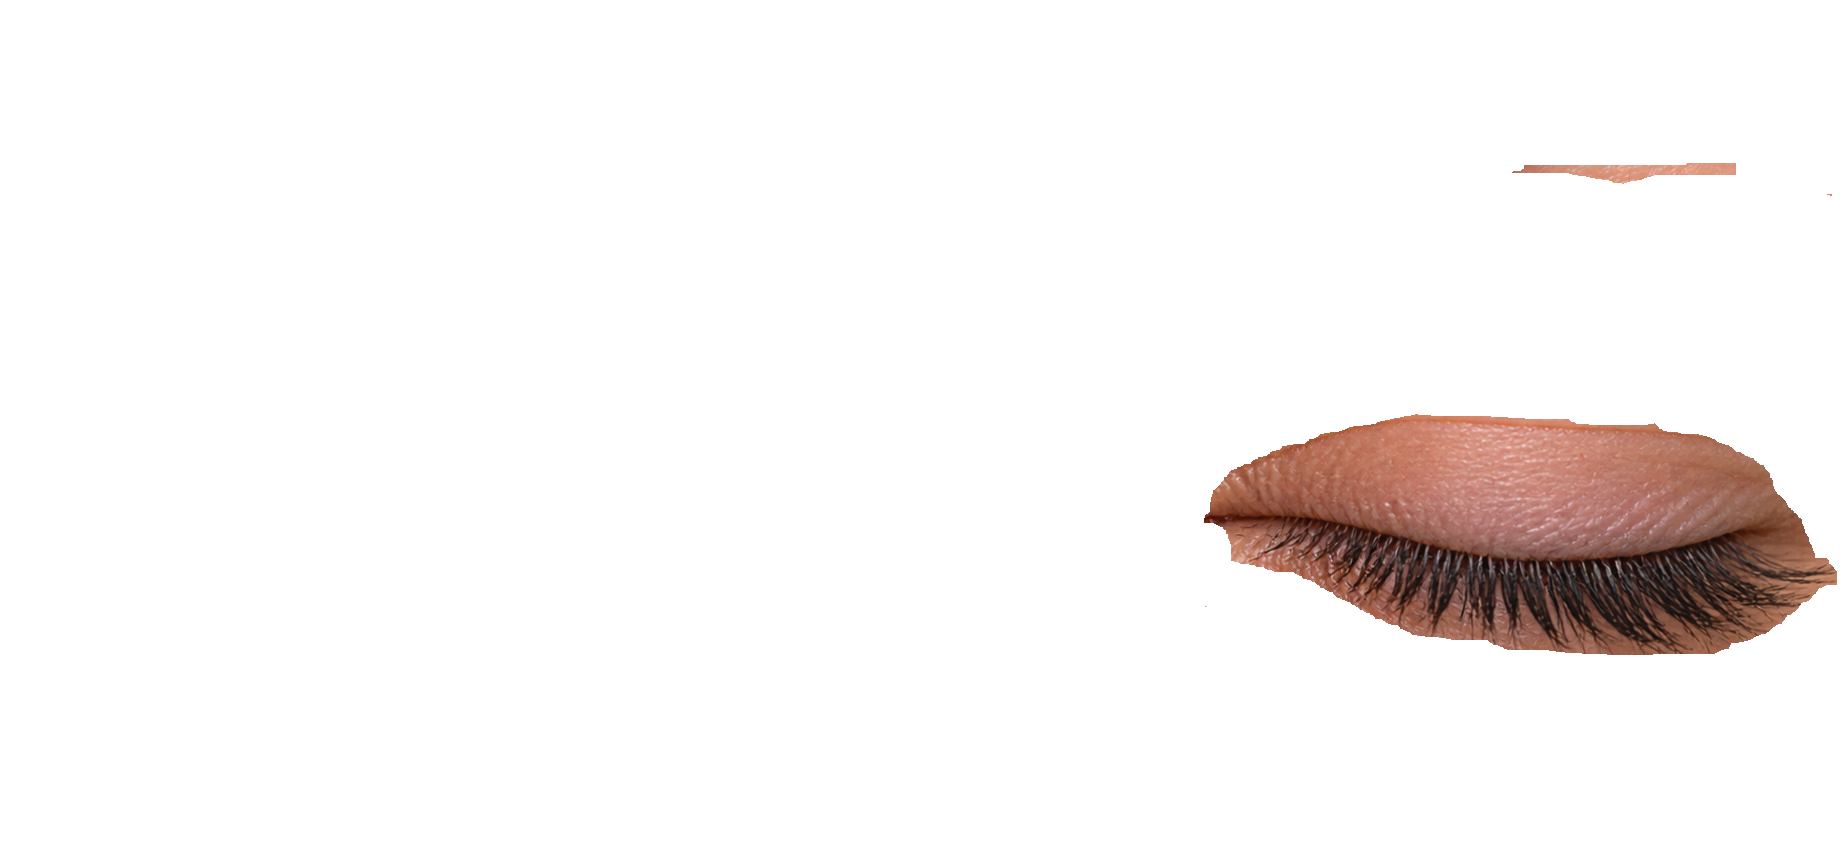
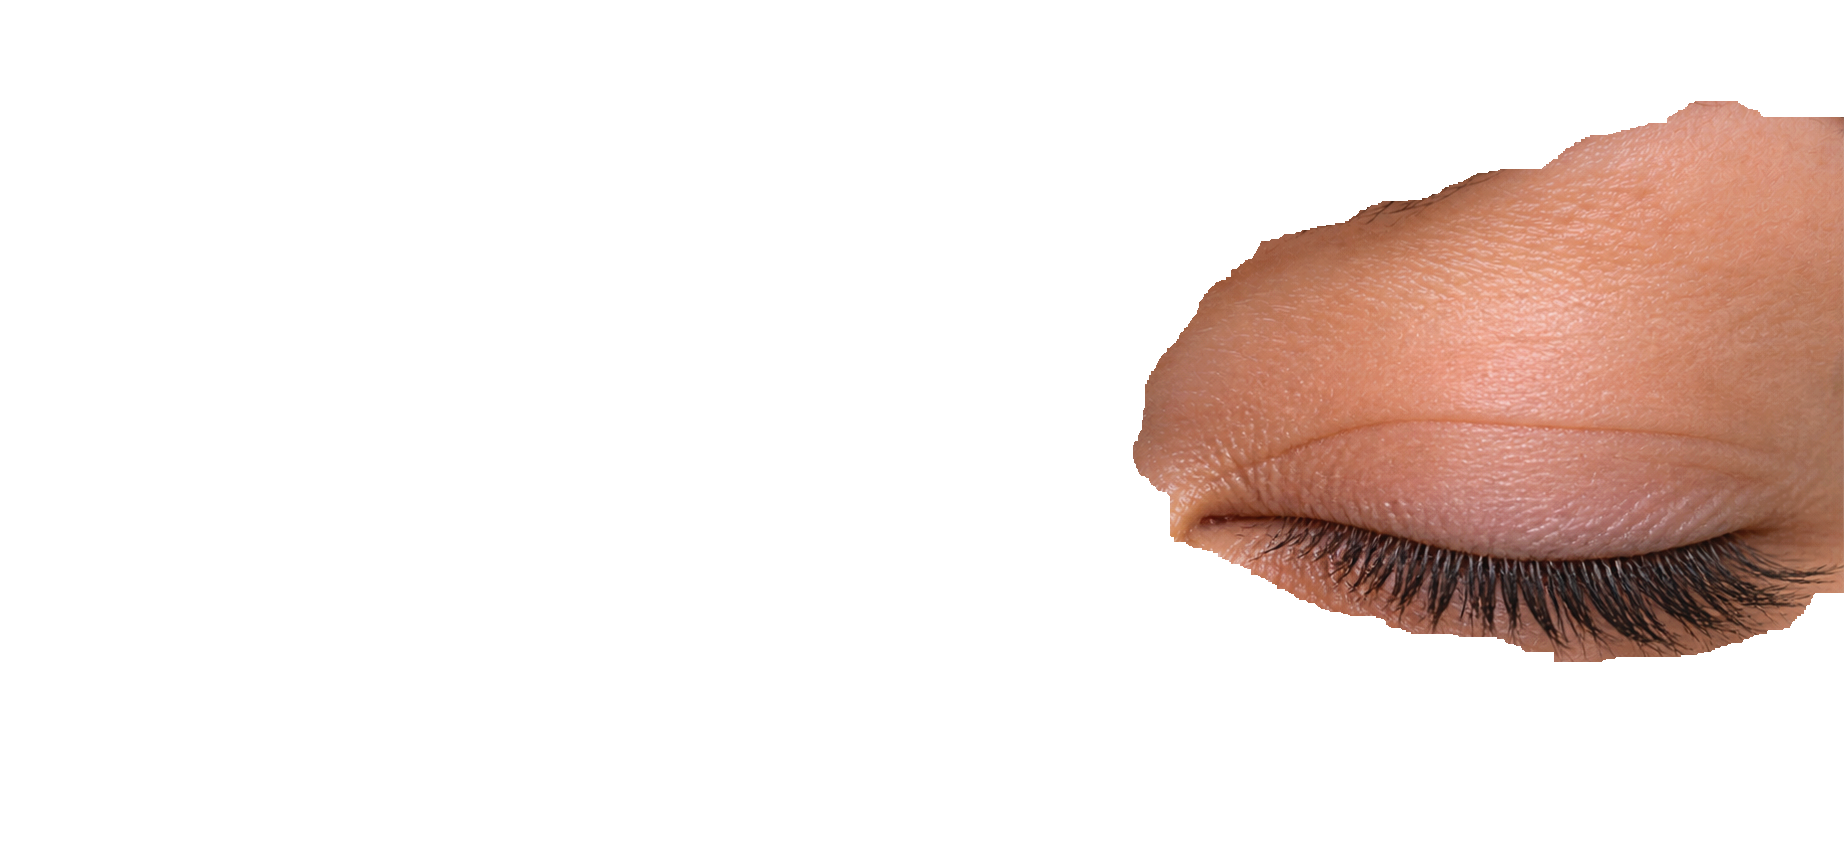
eyes changed less crop re code

diff --git a/pupil.html b/pupil.html
@@ -60,12 +60,14 @@ html, body {
     touch-action: none;
 }
 
+/* Patient's LEFT eye — screen right */
 #left-touch {
-    left: 7%;
+    right: 7%;
 }
 
+/* Patient's RIGHT eye — screen left */
 #right-touch {
-    right: 7%;
+    left: 7%;
 }
 </style>
 </head>
